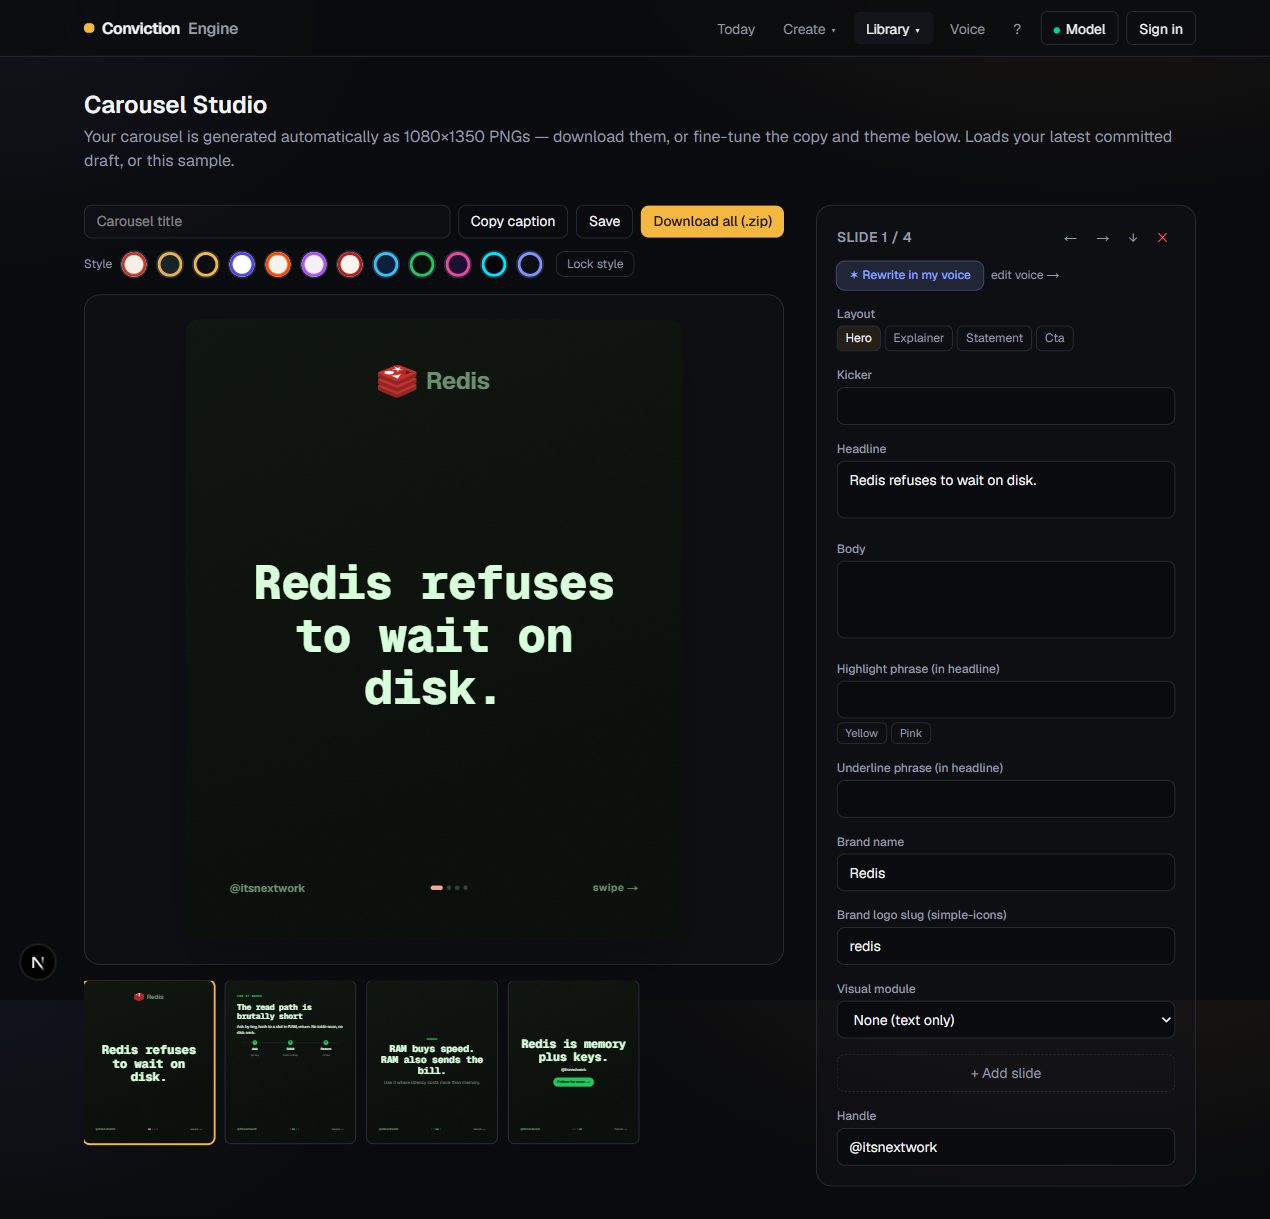
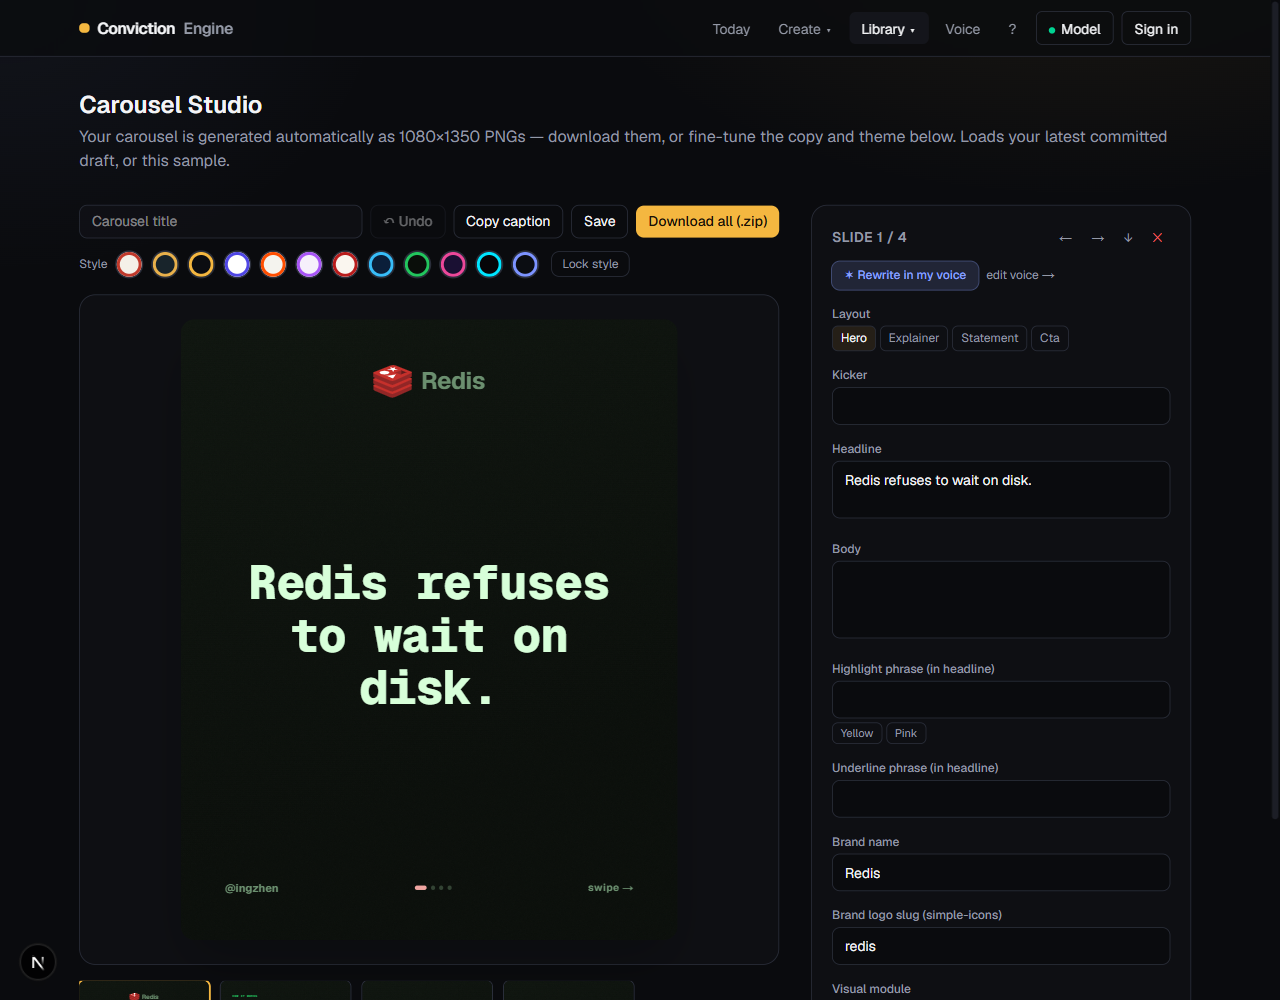
docs: use @ingzhen handle in carousel screenshots (was the @itsnextwork style reference)

diff --git a/web/app/lab/page.tsx b/web/app/lab/page.tsx
@@ -116,7 +116,7 @@ export default function LabPage() {
               design={design}
               index={i}
               total={5}
-              handle="@itsnextwork"
+              handle="@ingzhen"
               innerRef={(el) => { refs.current[i] = el; }}
             />
           </div>
@@ -131,7 +131,7 @@ export default function LabPage() {
   return (
     <div className="mx-auto max-w-6xl px-5 py-10">
       <h1 className="text-2xl font-bold">Carousel engine lab</h1>
-      <p className="mt-1 text-sm text-muted">HTML/CSS SlideCanvas · client export · @itsnextwork aesthetic.</p>
+      <p className="mt-1 text-sm text-muted">HTML/CSS SlideCanvas · client export · editorial aesthetic.</p>
 
       <div className="mt-4 flex gap-2">
         {DESIGN_IDS.map((id) => (
